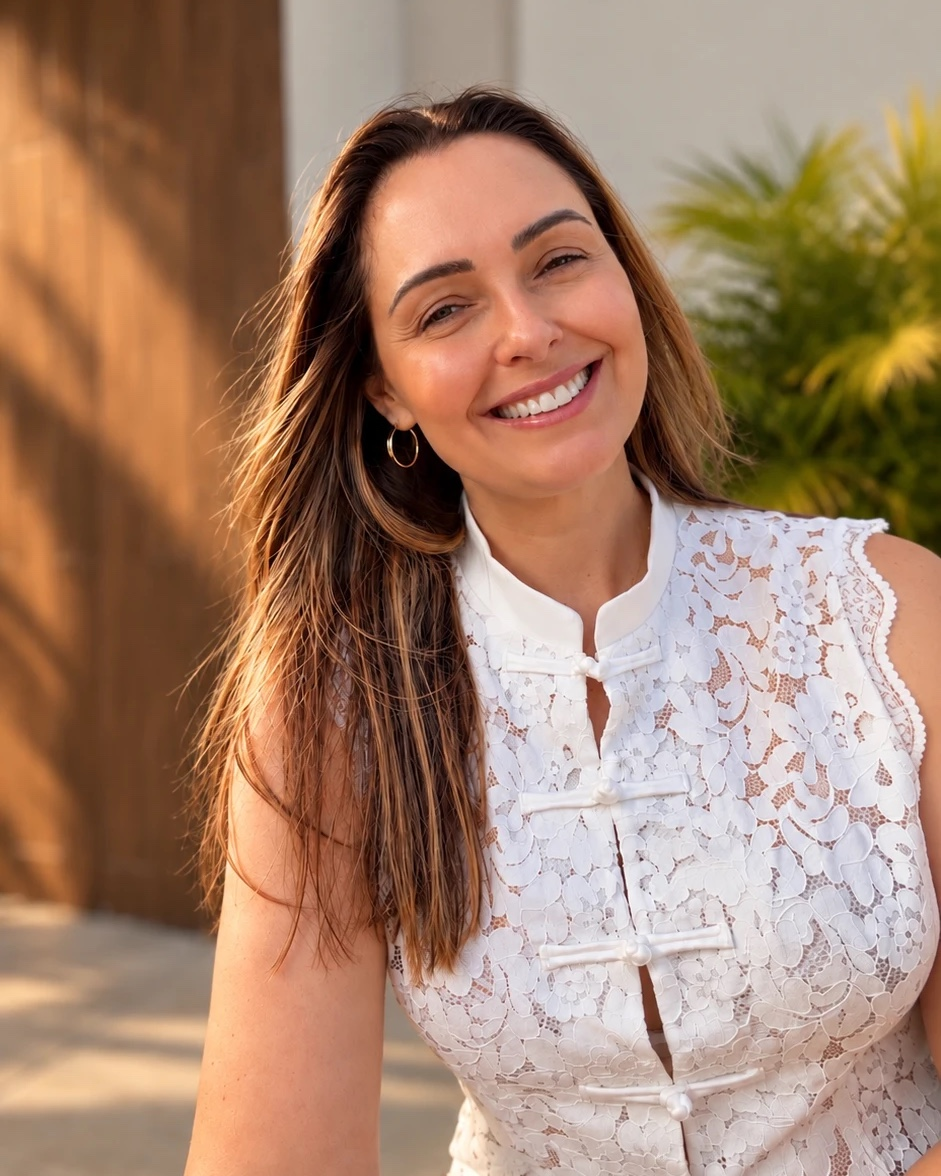
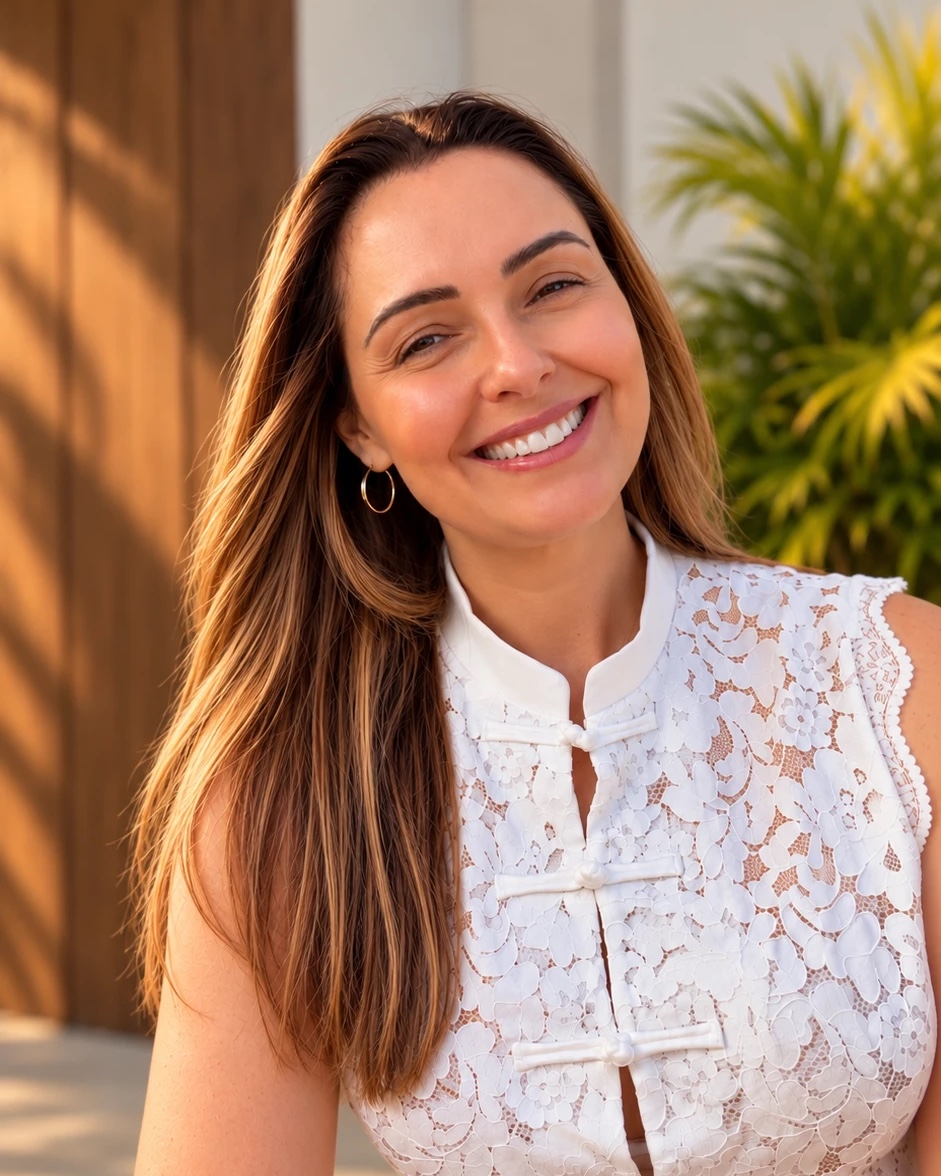
Nova foto da capa com o cabelo retocado

diff --git a/index.html b/index.html
@@ -354,7 +354,7 @@ p{margin:0 0 1em}
       <figure class="capa-foto">
         <!-- FOTO DA CAPA: para trocar, substitua o arquivo fotos/capa.jpg (de preferência vertical).
              object-position escolhe qual parte da foto aparece no recorte 4:5 (0% = topo, 100% = base). -->
-        <div class="provisorio g1"><img src="fotos/capa.jpg" alt="Melissa Möller sorrindo, de blusa branca de renda, ao ar livre" data-i18n-alt="fotoCapa" width="941" height="1176" fetchpriority="high"></div>
+        <div class="provisorio g1"><img src="fotos/capa.jpg?v=2" alt="Melissa Möller sorrindo, de blusa branca de renda, ao ar livre" data-i18n-alt="fotoCapa" width="941" height="1176" fetchpriority="high"></div>
       </figure>
     </div>
   </div>
